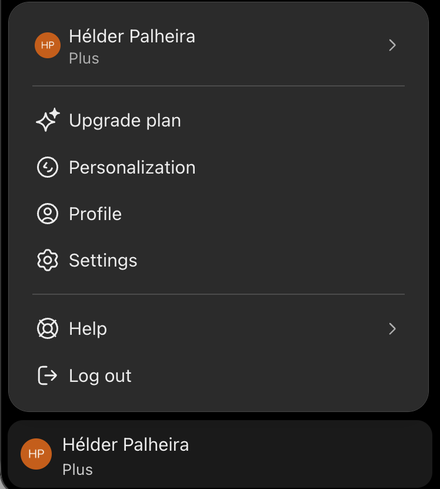
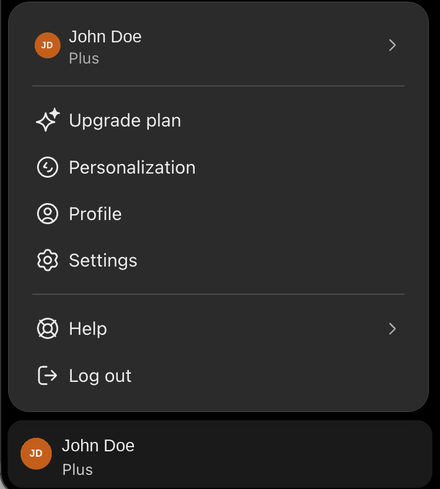
content(recursos): Interface gráfico v4 — um slide por assistente, nome anonimizado
- O slide do ecrã inicial passa a três (ChatGPT, Claude, Gemini): captura do
  ecrã e do menu da conta à esquerda, tabela à direita (barra lateral, topo,
  caixa de mensagem, sem memória, menu da conta).
- Sai o slide "Tudo começa no menu da conta" (os menus passam para os slides
  de cada assistente).
- Menus da conta com o nome substituído por "John Doe" (avatar "JD").

Changed region(s): [[0.0591, 0.8896, 0.4432, 0.9509], [0.1477, 0.0613, 0.4432, 0.092], [0.0886, 0.0613, 0.1182, 0.1227]]

diff --git a/recursos/interface-grafico/index.html b/recursos/interface-grafico/index.html
@@ -101,6 +101,15 @@
   .reveal .row p { font-size: 12.5pt; line-height: 1.4; margin: 0; color: var(--cel-text); }
   .reveal .row p strong { color: var(--cel-primary); }
 
+  /* Um slide por assistente: capturas à esquerda, tabela à direita */
+  .vendor { display: grid; grid-template-columns: 1.08fr 1fr; gap: 24px; align-items: start; }
+  .vshots { display: grid; gap: 10px; justify-items: start; }
+  .vshots img { width: 100%; display: block; border: 1px solid #D8D8D4; margin: 0; }
+  .vshots img[src*="menu"] { width: 46%; }
+  .reveal table.vt { font-size: 12pt; }
+  .reveal table.vt td { padding: 6px 8px; line-height: 1.38; }
+  .reveal table.vt td:first-child { width: 31%; }
+
   /* Menus da conta lado a lado */
   .menus { display: grid; grid-template-columns: 230px 230px 1fr; gap: 26px; align-items: start; }
   .menus img { width: 100%; display: block; border: 1px solid #D8D8D4; margin: 0; }
@@ -164,23 +173,59 @@
 </section>
 
 <section class="content-slide">
-  <h2>Na prática: o ecrã inicial</h2>
+  <h2>ChatGPT: o ecrã inicial</h2>
   <div class="separator"></div>
-  <div class="rows">
-    <div class="row">
+  <div class="vendor">
+    <div class="vshots">
       <img src="img/chatgpt-inicio.png" alt="Ecrã inicial do ChatGPT com sessão iniciada">
-      <p><strong>ChatGPT</strong> — barra lateral com Projetos e Recentes; seletor "ChatGPT ▾" no topo; <strong>chat temporário</strong> no canto superior direito; "+" e nível de raciocínio na caixa.</p>
+      <img src="img/chatgpt-menu.png" alt="Menu da conta do ChatGPT">
     </div>
-    <div class="row">
-      <img src="img/claude-inicio.png" alt="Ecrã inicial do Claude com sessão iniciada">
-      <p><strong>Claude</strong> — barra lateral com Projects e Artifacts; <strong>fantasma</strong> (conversa incógnita) no canto superior direito; "+", modo e modelo na caixa.</p>
-    </div>
-    <div class="row">
-      <img src="img/gemini-inicio.png" alt="Ecrã inicial do Gemini com sessão iniciada">
-      <p><strong>Gemini</strong> — barra lateral com Biblioteca e Notebooks; "+" e seletor de modelo ("Pro ▾") dentro da caixa de mensagem.</p>
-    </div>
+    <table class="t vt">
+      <tr><td>Barra lateral</td><td>Nova conversa · Agendado · Biblioteca · Plugins · Explorar · Fixados · <strong>Projetos</strong> · Recentes</td></tr>
+      <tr><td>Topo</td><td>Seletor "ChatGPT ▾" · Chat / Work</td></tr>
+      <tr><td>Caixa de mensagem</td><td><strong>"+"</strong> para ficheiros e ferramentas · nível de raciocínio · voz</td></tr>
+      <tr><td>Sem memória</td><td><strong>Chat temporário</strong> — ícone no canto superior direito</td></tr>
+      <tr><td>Menu da conta</td><td>Nome, canto inferior esquerdo → <strong>Personalização</strong> · Perfil · Definições</td></tr>
+    </table>
   </div>
-  <p class="note" style="margin-top:10px;">Capturas de 14/10/2026, com sessão iniciada. A interface muda com o plano, o idioma e as atualizações.</p>
+  <p class="note" style="margin-top:12px;">Captura de 14/10/2026, com sessão iniciada (interface em inglês).</p>
+</section>
+
+<section class="content-slide">
+  <h2>Claude: o ecrã inicial</h2>
+  <div class="separator"></div>
+  <div class="vendor">
+    <div class="vshots">
+      <img src="img/claude-inicio.png" alt="Ecrã inicial do Claude com sessão iniciada">
+      <img src="img/claude-menu.png" alt="Menu da conta do Claude">
+    </div>
+    <table class="t vt">
+      <tr><td>Barra lateral</td><td>Novo · <strong>Projetos</strong> · Artefactos · Agendado · Personalizar · Mais · conversas e tarefas</td></tr>
+      <tr><td>Topo</td><td>Alternador conversa / código, no topo da barra lateral</td></tr>
+      <tr><td>Caixa de mensagem</td><td><strong>"+"</strong> para ficheiros e ferramentas · Chat / Cowork · modelo · voz</td></tr>
+      <tr><td>Sem memória</td><td><strong>Conversa incógnita</strong> — ícone do fantasma, canto superior direito</td></tr>
+      <tr><td>Menu da conta</td><td>Nome, canto inferior esquerdo → <strong>Definições</strong> · Utilização · Idioma · Ajuda</td></tr>
+    </table>
+  </div>
+  <p class="note" style="margin-top:12px;">Captura de 14/10/2026, com sessão iniciada (interface em inglês).</p>
+</section>
+
+<section class="content-slide">
+  <h2>Gemini: o ecrã inicial</h2>
+  <div class="separator"></div>
+  <div class="vendor">
+    <div class="vshots">
+      <img src="img/gemini-inicio.png" alt="Ecrã inicial do Gemini com sessão iniciada">
+    </div>
+    <table class="t vt">
+      <tr><td>Barra lateral</td><td>Novo chat · Biblioteca · Imagens · Agendado · Estudantes · Mais · Notebooks</td></tr>
+      <tr><td>Topo</td><td>Instalar app</td></tr>
+      <tr><td>Caixa de mensagem</td><td><strong>"+"</strong> para ficheiros e ferramentas · seletor de modelo ("Pro ▾") · microfone</td></tr>
+      <tr><td>Sem memória</td><td><strong>Conversa temporária</strong></td></tr>
+      <tr><td>Definições</td><td><strong>Roda dentada</strong> ao lado do nome, canto inferior esquerdo</td></tr>
+    </table>
+  </div>
+  <p class="note" style="margin-top:12px;">Captura de 14/10/2026, com sessão iniciada. O menu de contas não é mostrado: tem dados pessoais e nada de útil para a aula.</p>
 </section>
 
 <section class="content-slide">
@@ -229,21 +274,6 @@
   </div>
   <div class="synth"><p>As três camadas entram em cada resposta. Quem as controla, controla o assistente.</p></div>
   <p class="note">Aqui fica o mapa dos menus. O que escrever em cada camada é aprofundado no módulo próprio de Personalização.</p>
-</section>
-
-<section class="content-slide">
-  <h2>Tudo começa no menu da conta</h2>
-  <div class="separator"></div>
-  <div class="menus">
-    <img src="img/chatgpt-menu.png" alt="Menu da conta do ChatGPT: Personalization, Profile, Settings">
-    <img src="img/claude-menu.png" alt="Menu da conta do Claude: Settings, Usage, Language">
-    <div>
-      <p style="font-size:15pt; margin:0 0 12px;">Clicar no <strong>nome</strong>, no canto inferior esquerdo.</p>
-      <p style="font-size:14pt; margin:0 0 10px;"><strong>ChatGPT</strong> — <em>Personalization</em> está logo no menu.</p>
-      <p style="font-size:14pt; margin:0 0 10px;"><strong>Claude</strong> — <em>Settings</em>, e daí Geral e Memória.</p>
-      <p style="font-size:14pt; margin:0;"><strong>Gemini</strong> — a roda dentada das <em>Definições</em> fica ao lado do nome.</p>
-    </div>
-  </div>
 </section>
 
 <section class="content-slide">
